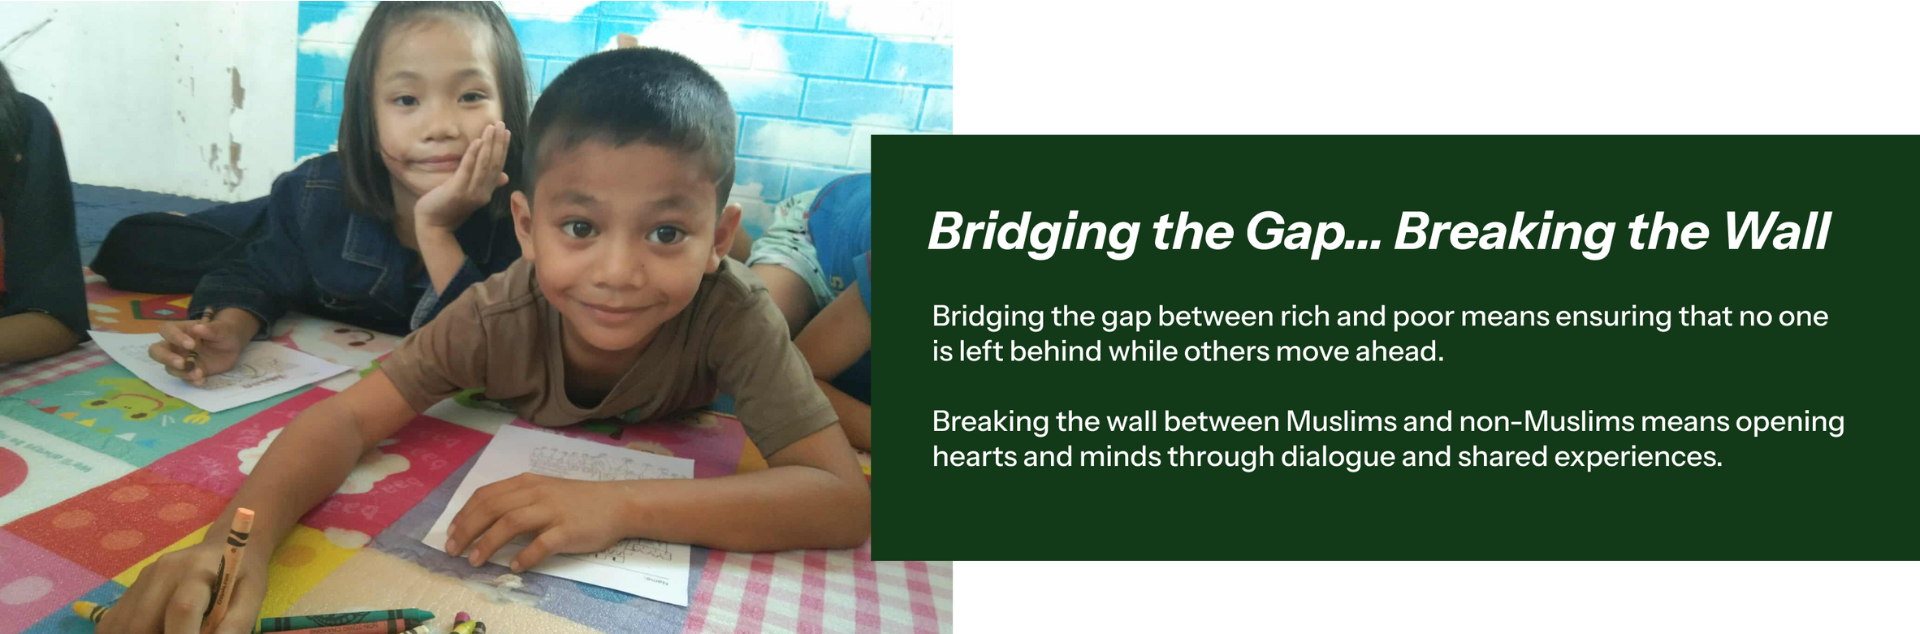
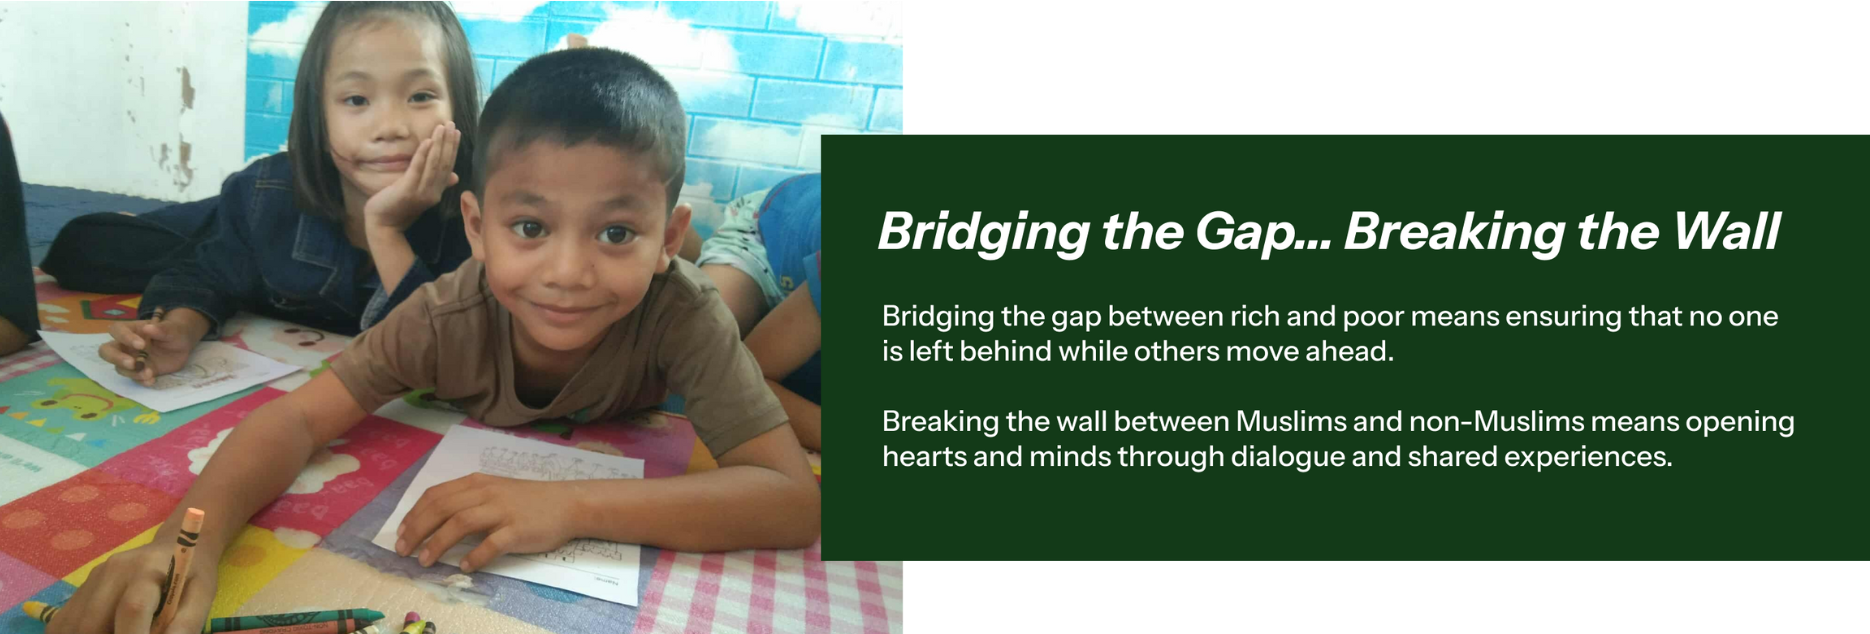
Enlarged Font

diff --git a/public/styles.css b/public/styles.css
@@ -1035,6 +1035,10 @@ body{
     margin-bottom: 20px;
 }
 
+.container-bgl-main p{
+    font-size: large;
+}
+
 .bgl-image-desc{
     display: flex;
     justify-content: center;
@@ -1043,7 +1047,7 @@ body{
 }
 
 .bgl-image-desc img{
-    height: 350px;
+    height: 380px;
     max-width: 100%;
     width: auto;
     object-fit: cover;
